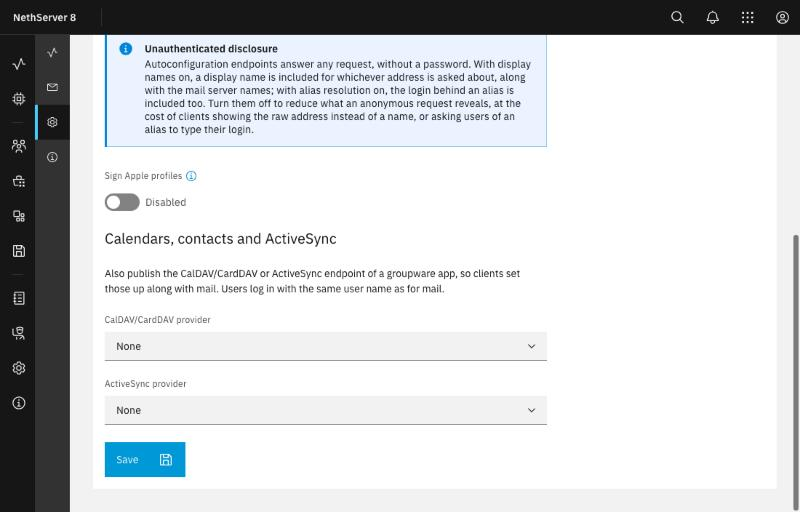
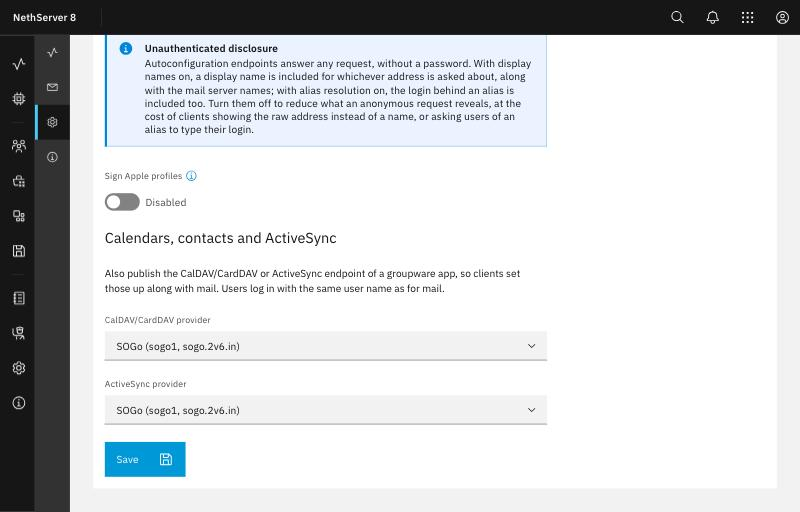
docs: retake the groupware settings screenshot
The previous image was taken before the Settings fix and showed None
for both providers. Retake it on a test node updated to the branch
image, where a reloaded page shows the saved provider.

Record that test in the design notes, including that the browser kept
running the previous UI from its cached index.html until that page was
fetched again.

diff --git a/DESIGN.md b/DESIGN.md
@@ -62,7 +62,7 @@ The module:
 
 **ActiveSync with a real client (2026-09-29, public node, SOGo as the ActiveSync provider):** an iPhone on iOS 26.7 added an Exchange account for `tester@automx.2v6.in` (Settings → Apps → Mail → Mail Accounts) and asked for the password once. Traefik's access log shows the sequence: iOS first tried Autodiscover v2 (`GET /autodiscover/autodiscover.json/v1.0/<address>?Protocol=ActiveSync`, 404, since automx has `autodiscover_v2 = no` and nothing routes it), then fell back to **`POST /Autodiscover/Autodiscover.xml`, the capitalized path**, which the `-1` route served with 200 (3.4). A calendar event created on the phone appeared in SOGo, so SOGo accepted the directory login over ActiveSync.
 
-**Found 2026-11-04 (taking screenshots on the public node):** on opening Settings, both provider dropdowns showed None while the stored settings and the page's own data held `sogo1`. `getConfiguration()` set the values and the option list in the same tick; Vue applies a `<select>`'s value before patching its children, so the browser found no matching option and fell back to the first one. Save still sent the right value, but the page misreported the setting, and picking None did nothing because None was already displayed. After a Save the options already exist, which is why testing through the UI could miss it. Fixed by setting the options first and the values on the next tick; reproduced and confirmed in a browser against the real `CvSelect`, not yet on a node.
+**Found 2026-11-04 (taking screenshots on the public node):** on opening Settings, both provider dropdowns showed None while the stored settings and the page's own data held `sogo1`. `getConfiguration()` set the values and the option list in the same tick; Vue applies a `<select>`'s value before patching its children, so the browser found no matching option and fell back to the first one. Save still sent the right value, but the page misreported the setting, and picking None did nothing because None was already displayed. After a Save the options already exist, which is why testing through the UI could miss it. Fixed by setting the options first and the values on the next tick; reproduced and confirmed in a browser against the real `CvSelect`. **Public node (2026-11-04, ns8-test.2v6.in):** after updating to the branch image, a reloaded Settings page shows SOGo in both dropdowns, and the update left the settings, domains and routes as they were. The browser first kept running the previous UI from its cached `index.html`, so the fix showed only after that page was fetched again.
 
 **VERIFY on a real node / real clients:**
 1. iOS/macOS discover calendars and contacts from `https://<sogo>/SOGo/dav/` and `https://<webtop>/webtop-dav/server.php` given as the principal URL, through the Apple profile's CalDAV/CardDAV accounts (Nextcloud's `/remote.php/dav/` is confirmed on real devices; SOGo calendars are confirmed over ActiveSync, not CalDAV).
